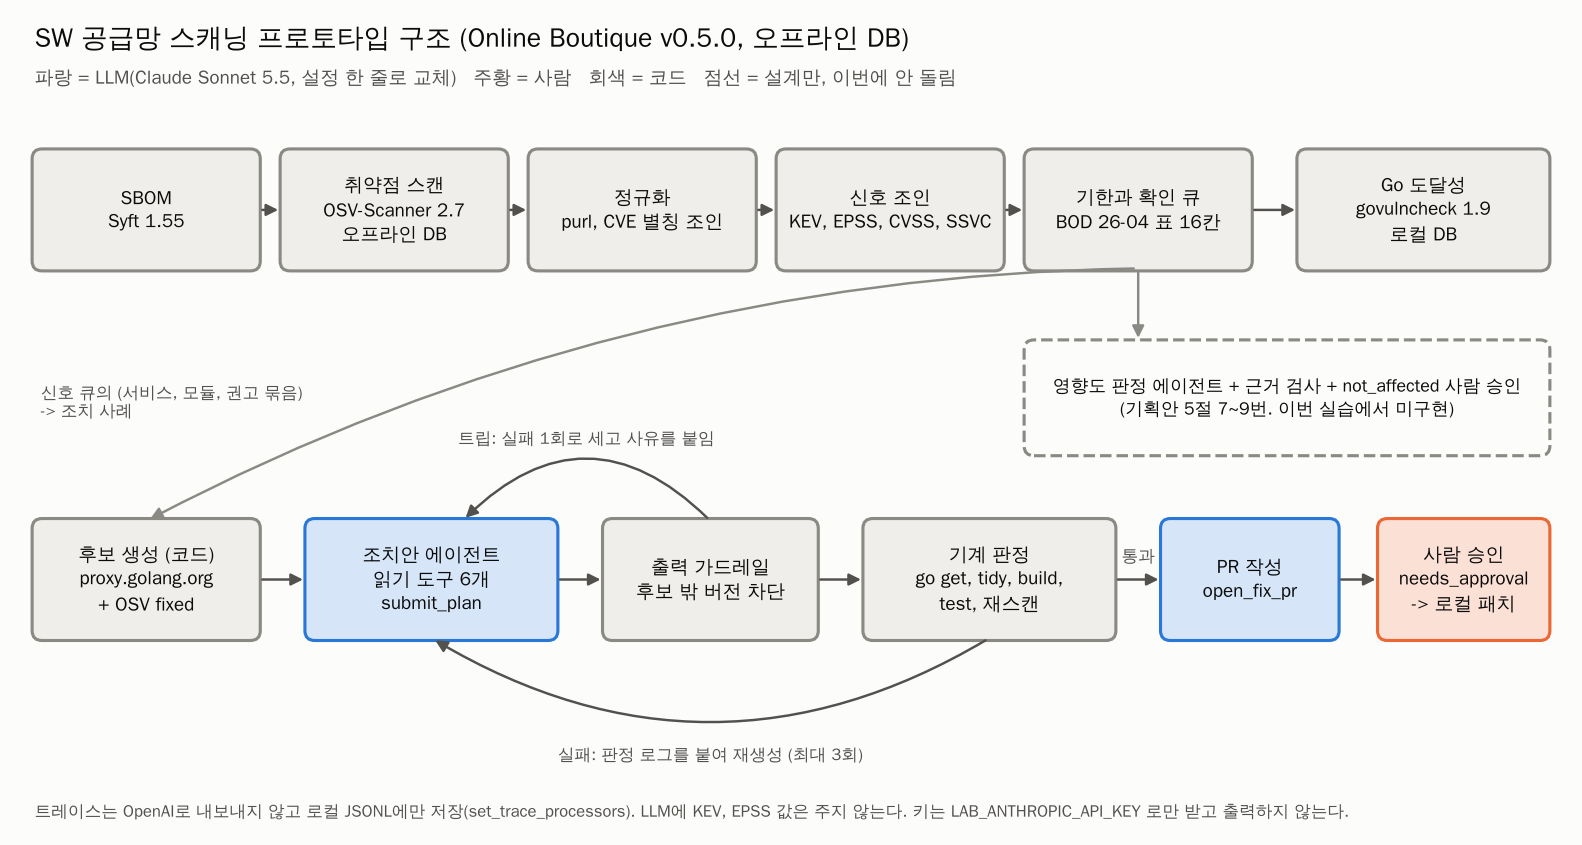
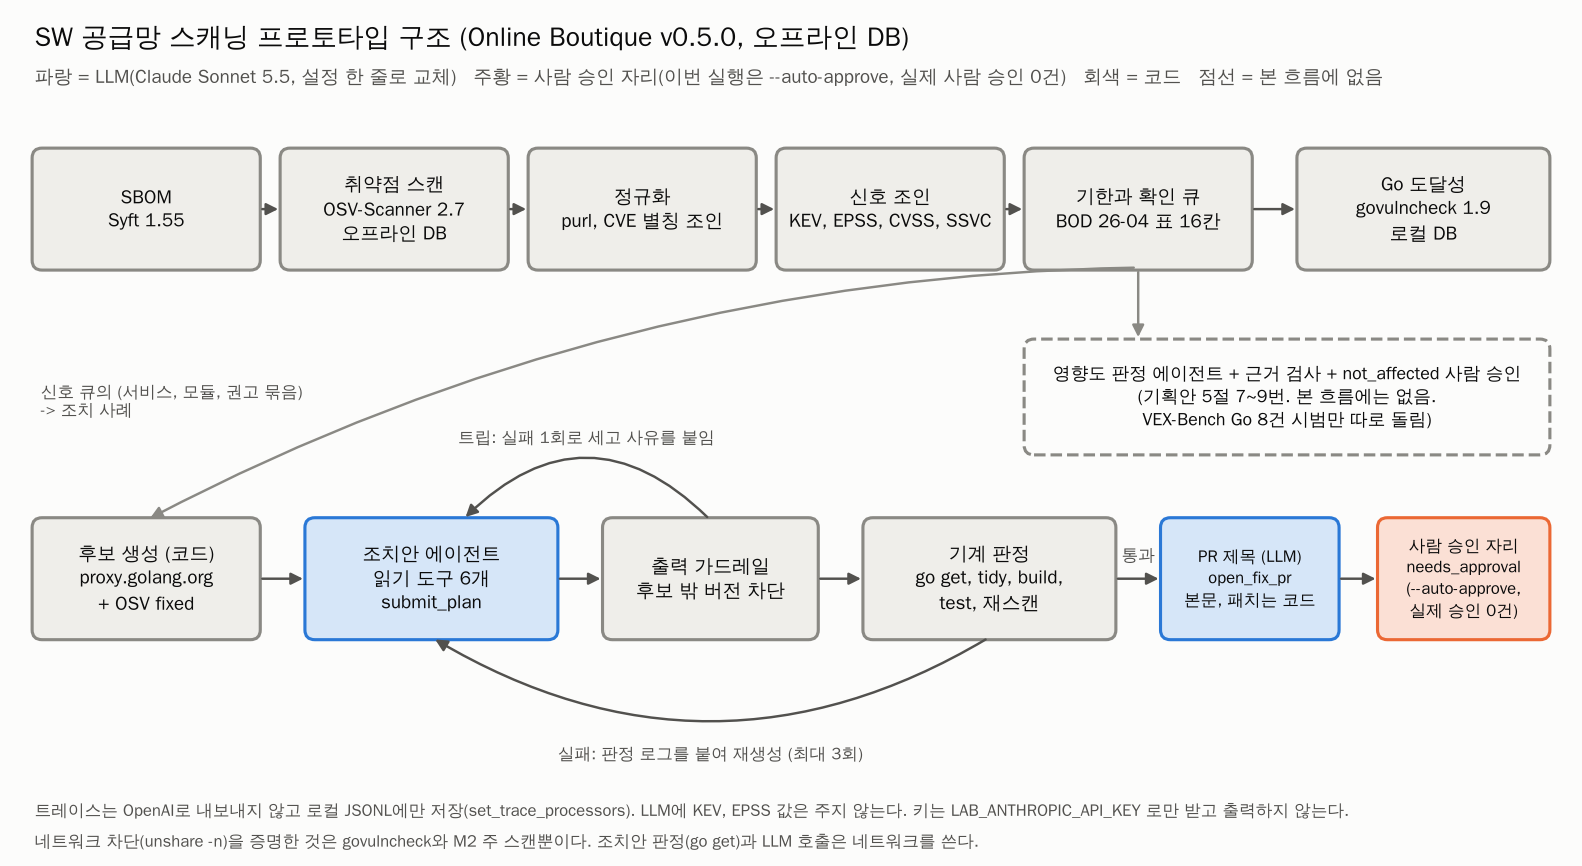
문서 보강 4: 4절 표 표시, 그림 문구(평가 사례, 단위, 네트워크 범위)

diff --git a/lotte/innovate/agent/figs.py b/lotte/innovate/agent/figs.py
@@ -50,7 +50,7 @@ def arch() -> Path:
     ax.set_ylim(0, 6.6)
     ax.axis("off")
     ax.text(0.15, 6.35, "SW 공급망 스캐닝 프로토타입 구조 (Online Boutique v0.5.0, 오프라인 DB)", fontsize=12, color=INK, weight="bold")
-    ax.text(0.15, 6.05, "파랑 = LLM(Claude Sonnet 5.5, 설정 한 줄로 교체)   주황 = 사람   회색 = 코드   점선 = 설계만, 이번에 안 돌림",
+    ax.text(0.15, 6.05, "파랑 = LLM(Claude Sonnet 5.5, 설정 한 줄로 교체)   주황 = 사람 승인 자리(이번 실행은 --auto-approve, 실제 사람 승인 0건)   회색 = 코드   점선 = 본 흐름에 없음",
             fontsize=8.5, color=INK2)
     # 1행: 스캔 깔때기 (M2, 도달성)
     y1, h = 4.55, 0.95
@@ -62,7 +62,7 @@ def arch() -> Path:
         if i:
             arrow(ax, xs[i - 1] + 1.8, y1 + h / 2, x, y1 + h / 2)
     # 영향도 판정 (설계만)
-    box(ax, 8.15, 3.05, 4.2, 0.9, "영향도 판정 에이전트 + 근거 검사 + not_affected 사람 승인\n(기획안 5절 7~9번. 이번 실습에서 미구현)", "plan", dashed=True, size=8)
+    box(ax, 8.15, 3.05, 4.2, 0.9, "영향도 판정 에이전트 + 근거 검사 + not_affected 사람 승인\n(기획안 5절 7~9번. 본 흐름에는 없음.\nVEX-Bench Go 8건 시범만 따로 돌림)", "plan", dashed=True, size=8)
     arrow(ax, 9.05, y1, 9.05, 3.95, color=MUTED)
     # 2행: 조치안 루프 (agent/)
     y2 = 1.55
@@ -70,8 +70,8 @@ def arch() -> Path:
     box(ax, 2.35, y2, 2.0, h, "조치안 에이전트\n읽기 도구 6개\nsubmit_plan", "llm")
     box(ax, 4.75, y2, 1.7, h, "출력 가드레일\n후보 밖 버전 차단")
     box(ax, 6.85, y2, 2.0, h, "기계 판정\ngo get, tidy, build,\ntest, 재스캔")
-    box(ax, 9.25, y2, 1.4, h, "PR 작성\nopen_fix_pr", "llm")
-    box(ax, 11.0, y2, 1.35, h, "사람 승인\nneeds_approval\n-> 로컬 패치", "human")
+    box(ax, 9.25, y2, 1.4, h, "PR 제목 (LLM)\nopen_fix_pr\n본문, 패치는 코드", "llm", size=7.5)
+    box(ax, 11.0, y2, 1.35, h, "사람 승인 자리\nneeds_approval\n(--auto-approve,\n실제 승인 0건)", "human", size=7.5)
     arrow(ax, 1.95, y2 + h / 2, 2.35, y2 + h / 2)
     arrow(ax, 4.35, y2 + h / 2, 4.75, y2 + h / 2)
     arrow(ax, 6.45, y2 + h / 2, 6.85, y2 + h / 2)
@@ -85,6 +85,7 @@ def arch() -> Path:
     ax.text(0.2, 3.35, "신호 큐의 (서비스, 모듈, 권고 묶음)\n-> 조치 사례", fontsize=7.5, color=INK2)
     ax.text(0.15, 0.1, "트레이스는 OpenAI로 내보내지 않고 로컬 JSONL에만 저장(set_trace_processors). "
             "LLM에 KEV, EPSS 값은 주지 않는다. 키는 LAB_ANTHROPIC_API_KEY 로만 받고 출력하지 않는다.", fontsize=7.5, color=INK2)
+    ax.text(0.15, -0.15, "네트워크 차단(unshare -n)을 증명한 것은 govulncheck와 M2 주 스캔뿐이다. 조치안 판정(go get)과 LLM 호출은 네트워크를 쓴다.", fontsize=7.5, color=INK2)
     FIGS.mkdir(parents=True, exist_ok=True)
     out = FIGS / "arch.png"
     fig.savefig(out, facecolor=SURF, bbox_inches="tight")
@@ -114,7 +115,7 @@ def results(run_ids: list[str]) -> Path:
     w = 0.26
     b1 = ax.bar([x - w for x in xs], first, w - 0.03, color="#9cc3ee", label="첫 시도 통과")
     b2 = ax.bar(list(xs), final, w - 0.03, color=BLUE, label="최종 통과 (최대 3회)")
-    b3 = ax.bar([x + w for x in xs], keep, w - 0.03, color=ORANGE, label="최종 통과 + golang:1.19.4로도 빌드, 테스트 통과")
+    b3 = ax.bar([x + w for x in xs], keep, w - 0.03, color=ORANGE, label="최종 통과 + 같은 버전 go1.19.4 툴체인으로도 빌드, 테스트 통과")
     for bars in (b1, b2, b3):
         for b in bars:
             ax.text(b.get_x() + b.get_width() / 2, b.get_height() + 0.12, f"{int(b.get_height())}", ha="center",
@@ -123,7 +124,7 @@ def results(run_ids: list[str]) -> Path:
     ax.set_xticklabels([f"{lb}\nn={k}" for lb, k in zip(labels, n)], fontsize=8.5, color=INK)
     ax.set_ylim(0, max(n) + 1.5)
     ax.set_ylabel("사례 수 (기계 판정 통과)", color=INK2, fontsize=9)
-    ax.set_title("조치안 정책별 기계 판정 통과 (Online Boutique v0.5.0 Go, 정답 사례 10건)", fontsize=11, color=INK, loc="left")
+    ax.set_title("조치안 정책별 기계 판정 통과 (Online Boutique v0.5.0 Go, 평가 사례 10건)", fontsize=11, color=INK, loc="left")
     ax.grid(True, axis="y", color=GRID, lw=0.8)
     ax.set_axisbelow(True)
     for s in ("top", "right"):
@@ -134,7 +135,7 @@ def results(run_ids: list[str]) -> Path:
     ax.legend(frameon=False, fontsize=8.5, loc="upper left", ncol=3)
     costs = {r["policy"]: float(r["cost_usd_per_case"]) for r in rows if r["model"] != "none"}
     note = ("건당 LLM 비용(Sonnet 5.5 공식 단가): " + ", ".join(f"{names.get(k, k).splitlines()[0]} \\${v:.3f}" for k, v in costs.items())
-            + ".  모든 정책이 실패한 4건은 otel 계열(C03, C04, C09, C10): 시도한 조합은 앱 코드 수정이 필요하거나 새 HIGH 권고를 끌어왔다.")
+            + ".  모든 정책이 실패한 4건은 otel 계열(C03, C04, C09, C10): 시도한 조합은 앱 코드 수정이 필요하거나(시도한 범위, 전수 탐색 아님) 새 HIGH 권고를 끌어왔다.")
     fig.text(0.01, -0.07, note, fontsize=7.8, color=INK2, ha="left", va="top")
     out = FIGS / "agent_results.png"
     fig.savefig(out, facecolor=SURF, bbox_inches="tight")

diff --git a/lotte/innovate/m2/figs.py b/lotte/innovate/m2/figs.py
@@ -69,10 +69,10 @@ def main() -> None:
                 fontsize=9, color=INK2, transform=ax.transAxes)
     axes[0].set_yticks(y)
     axes[0].set_yticklabels(labels, fontsize=10, color=INK)
-    fig.suptitle("Online Boutique 스캔 깔때기 (OSV-Scanner 2.7.0 오프라인, Go 표준 라이브러리 제외)",
+    fig.suptitle("Online Boutique 스캔 깔때기 (OSV-Scanner 2.7.0 오프라인. Go 표준 라이브러리 제외, Java(adservice, Maven) 미스캔)",
                  x=0.01, ha="left", fontsize=13, color=INK)
     fig.text(0.01, 0.01,
-             "단위: 구성요소, 권고, 보고와 신호 큐는 행(서비스 x 패키지 버전 x 권고 또는 CVE), EPSS와 KEV는 고유 CVE. "
+             "단위가 섞여 있다: 구성요소, 권고, 보고, 신호 큐는 행(서비스 x 패키지 버전 x 권고 또는 CVE), 고유 CVE, EPSS, KEV는 CVE 개수. 신호 큐는 프런트엔드만 공개 가정. "
              "OSV DB 2026-11-02, EPSS 2026-11-01, KEV 2026.10.30. 재현: bash m2/run.sh",
              fontsize=8, color=MUTED)
     fig.tight_layout(rect=(0, 0.06, 1, 0.94))

diff --git a/lotte/innovate/RESULTS.md b/lotte/innovate/RESULTS.md
@@ -113,9 +113,9 @@
 | 최소 수정 + 다음 후보 (min_target_retry) | 없음 | 10 | 6 | 6 | 1.8 | 0 | 4 | 0 | $0 | 0초 |
 | 모듈 권고 전부 고치는 최소 (min_all) | 없음 | 10 | 4 | 4 | 1.0 | 0 | 2 | 0 | $0 | 0초 |
 | 최신 (latest) | 없음 | 10 | 3 | 3 | 1.0 | 0 | 0 | 0 | $0 | 0초 |
-| LLM 1회 호출 (llm_single, 고정 흐름) | Sonnet 5.5 | 10 | 6 | 6 | 1.8 | 1 | 4 | 8,198 | $0.0283 | 13.6초 |
+| LLM 1회 호출 (llm_single, 고정 흐름. 결과를 본 뒤 추가) | Sonnet 5.5 | 10 | 6 | 6 | 1.8 | 1 | 4 | 8,198 | $0.0283 | 13.6초 |
 | 에이전트 (도구 탐색) | Sonnet 5.5 | 10 | 6 | 6 | 1.8 | 1 | 4 | 23,557 | $0.0658 | 22.1초 |
-| 에이전트 승격 | Opus 5.5 | 4 | 0 | 0 | 3.0 | 2 | 0 | 48,992 | $0.2933 | 63.0초 |
+| 에이전트 승격 (Sonnet 실패 4건만 돌림. 위 행들과 비교 불가) | Opus 5.5 | 4 | 0 | 0 | 3.0 | 2 | 0 | 48,992.5 | $0.2933 | 63.0초 |
 
 - 기준선 대비: 에이전트는 최소 수정 기준선과 통과, 실패가 10건 모두 같았다. 고른 버전이 다른 것은 C07(v1.9.3 대 v1.9.1), C08(v0.41.0 대 v0.39.0, 모듈 권고 전부 해소)
 - 모든 정책이 실패한 4건(otel 계열 C03, C04, C09, C10): 시도한 조합은 앱 코드 수정이 필요하거나(`otelgrpc.UnaryClientInterceptor` 제거) 새 HIGH 권고를 끌어왔다. 통과 조합이 없다고 증명한 것은 아니다(존재 확인 3조합, `results/agent/oracle_check.json`)

diff --git a/lotte/innovate/agent/NOTES.md b/lotte/innovate/agent/NOTES.md
@@ -66,9 +66,9 @@
 | min_target_retry | 없음 | 10 | 6 | 6 | 1.8 | 0 | 0 | 4 | 3 | 0 | $0 | 0초 |
 | min_all | 없음 | 10 | 4 | 4 | 1.0 | 0 | 0 | 2 | 4 | 0 | $0 | 0초 |
 | latest | 없음 | 10 | 3 | 3 | 1.0 | 0 | 0 | 0 | 3 | 0 | $0 | 0초 |
-| llm_single (고정 흐름) | Sonnet 5.5 | 10 | 6 | 6 | 1.8 | 1 | 0 | 4 | 4 | 8,198 | $0.0283 | 13.6초 |
+| llm_single (고정 흐름. 결과를 본 뒤 추가) | Sonnet 5.5 | 10 | 6 | 6 | 1.8 | 1 | 0 | 4 | 4 | 8,198 | $0.0283 | 13.6초 |
 | agent (도구 탐색) | Sonnet 5.5 | 10 | 6 | 6 | 1.8 | 1 | 0 | 4 | 4 | 23,557 | $0.0658 | 22.1초 |
-| agent 승격 | Opus 5.5 | 4 (Sonnet 실패 건만) | 0 | 0 | 3.0 | 2 | 0 | 0 | 0 | 48,992 | $0.2933 | 63.0초 |
+| agent 승격 (비교 불가) | Opus 5.5 | 4 (Sonnet 실패 4건만) | 0 | 0 | 3.0 | 2 | 0 | 0 | 0 | 48,992.5 | $0.2933 | 63.0초 |
 
 - 비용은 토큰 x 공식 단가(Sonnet 5.5 $2/$10, Opus 5.5 $4/$20 per 100만 토큰, `model_config.PRICES`). Claude API 실제 청구서와 대조하지 않았다
 - 이번 세션의 Claude API 사용 합계: $2.14 (스모크 $0.007, 배관 확인 $0.022, Sonnet 에이전트 $0.658, 고정 흐름 $0.283, Opus 승격 $1.173). 상한 $10 안
